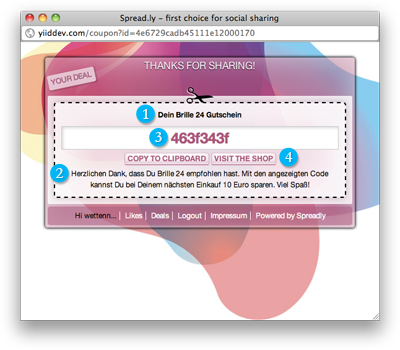
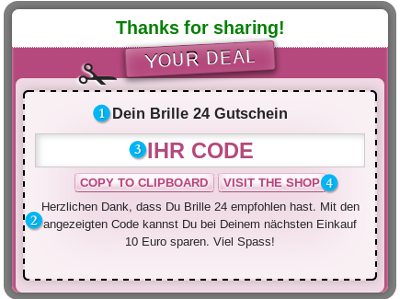
new preview

diff --git a/web/css/coupon.css b/web/css/coupon.css
@@ -210,7 +210,8 @@ h2 span#motivation {
   text-shadow: 0px 1px 0px hsla(0,0%,0%,1)
 }
 
-#deal_coupon .link{
+#deal_coupon .link, 
+#deal_url .link{
   color: #BA447D;
   text-decoration: none;
 }

diff --git a/apps/statistics/modules/deals/templates/step_couponSuccess.php b/apps/statistics/modules/deals/templates/step_couponSuccess.php
@@ -30,7 +30,13 @@
 				</div>
 			</div>
 			<div class="alignright">
-				<span class="preview-img"><img id="coupon-preview-img" src="/img/coupon_type_code.png" width="339px" /></span>
+				<span class="preview-img">
+					<?php if($pForm['coupon_type']->getValue()) {?>
+						<img id="coupon-preview-img" src="/img/coupon_type_<?php echo $pForm['coupon_type']->getValue(); ?>.png" width="339px" />
+					<?php } else { ?>
+						<img id="coupon-preview-img" src="/img/coupon_type_code.png" width="339px" />
+					<?php } ?>
+				</span>
 			</div>
 		</div>
 

diff --git a/apps/statistics/modules/deals/templates/_coupon_download.php b/apps/statistics/modules/deals/templates/_coupon_download.php
@@ -1,11 +1,10 @@
 <?php use_helper('Avatar', 'Text'); ?>
 <div id="content-outer" role="main">
 <header>
-  <h2><?php echo __("Thanks for sharing!"); ?></h2>
-  <p id="motivation">
-    <span id="deal-marker"><?php echo __('Your deal'); ?></span>
-  </p>
+  <h1 class="success"><?php echo __("Thanks for sharing!"); ?></h1>
+ <span id="deal-marker"><?php echo __("Your deal"); ?></span>
 </header>
+
 
 <!-- weisser Content -->
 <div id="content-inner" class="clearfix deal-content-inner">

diff --git a/apps/statistics/modules/deals/templates/_coupon_url.php b/apps/statistics/modules/deals/templates/_coupon_url.php
@@ -1,10 +1,8 @@
 <?php use_helper('Avatar', 'Text'); ?>
 <div id="content-outer" role="main">
 <header>
-  <h2><?php echo __("Thanks for sharing!"); ?></h2>
-  <p id="motivation">
-    <span id="deal-marker"><?php echo __('Your deal'); ?></span>
-  </p>
+  <h1 class="success"><?php echo __("Thanks for sharing!"); ?></h1>
+ <span id="deal-marker"><?php echo __("Your deal"); ?></span>
 </header>
 
 <!-- weisser Content -->
